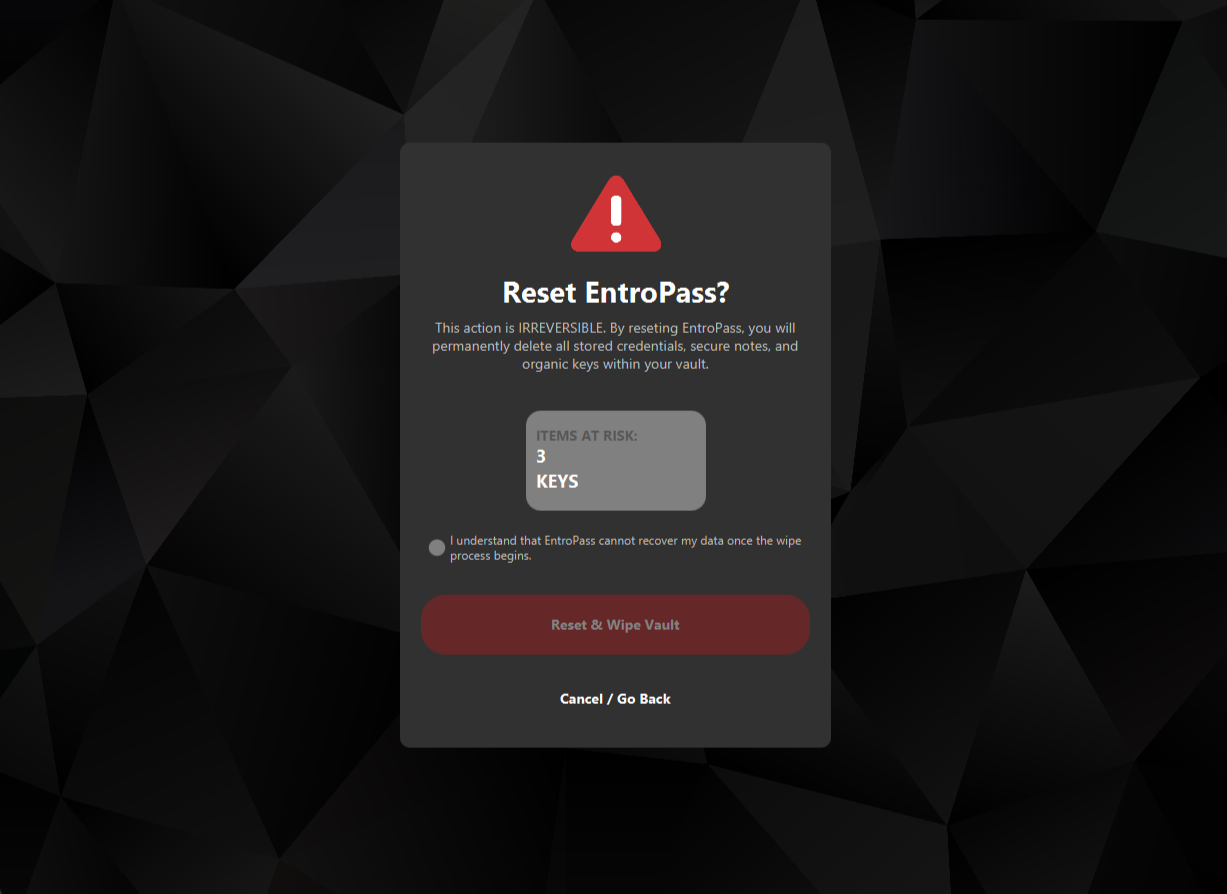
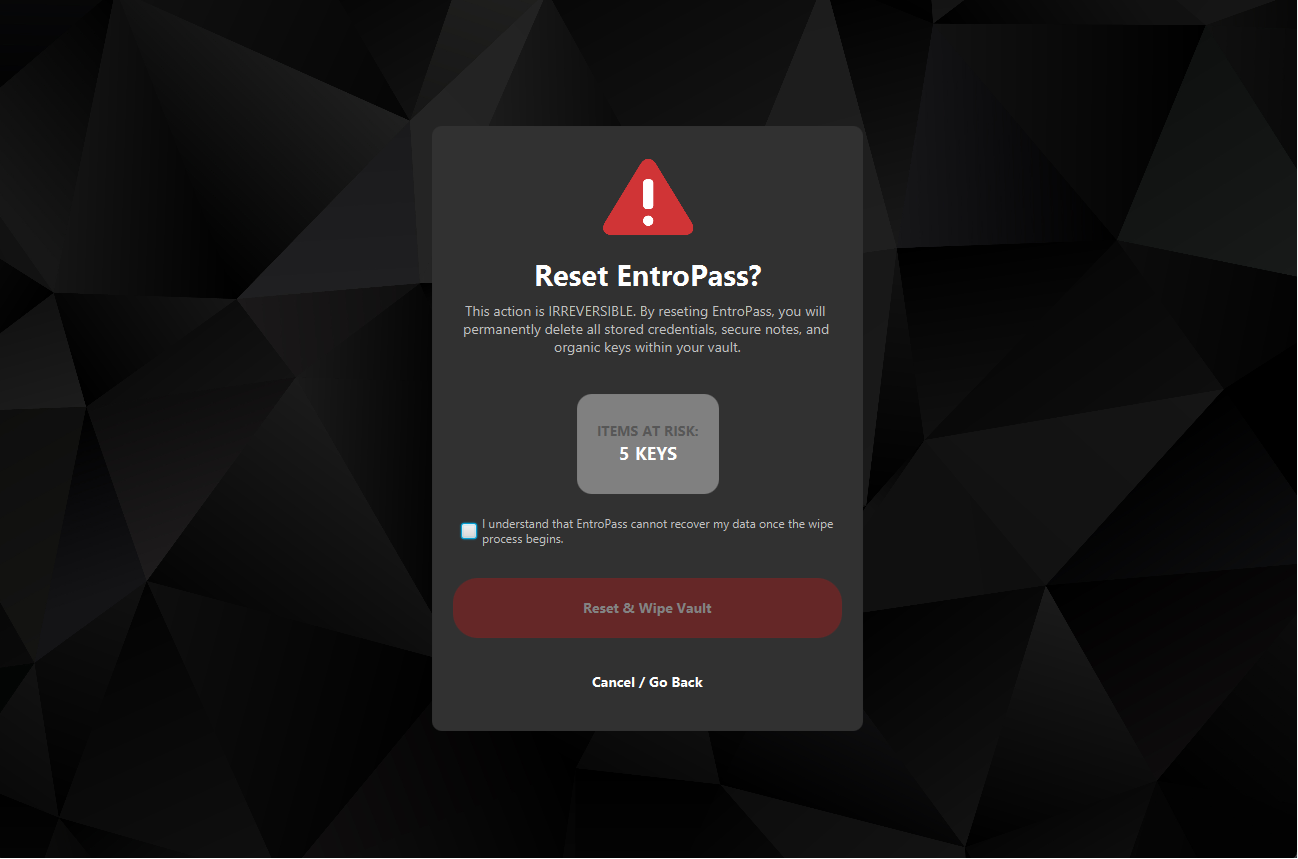
feat: updated forgot password page UI and screenshot to reflect the changes

diff --git a/src/main/resources/org/password_generator_gui/Stylesheets/ForgotPasswordStyleSheet.css b/src/main/resources/org/password_generator_gui/Stylesheets/ForgotPasswordStyleSheet.css
@@ -5,6 +5,14 @@
     -fx-text-fill: white;
 }
 
+.reset-button:hover {
+    -fx-background-color: #ff2929;
+    -fx-background-radius: 25;
+    -fx-border-radius: 25;
+    -fx-text-fill: white;
+    -fx-cursor: hand;
+}
+
 .container {
     -fx-background-color: grey;
     -fx-padding: 20;
@@ -18,6 +26,14 @@
     -fx-background-radius: 25;
     -fx-border-radius: 25;
     -fx-text-fill: white;
+}
+
+.cancel-button:hover {
+    -fx-background-color: transparent;
+    -fx-background-radius: 25;
+    -fx-border-radius: 25;
+    -fx-text-fill: #aaaaaa;
+    -fx-cursor: hand;
 }
 
 .border-pane {